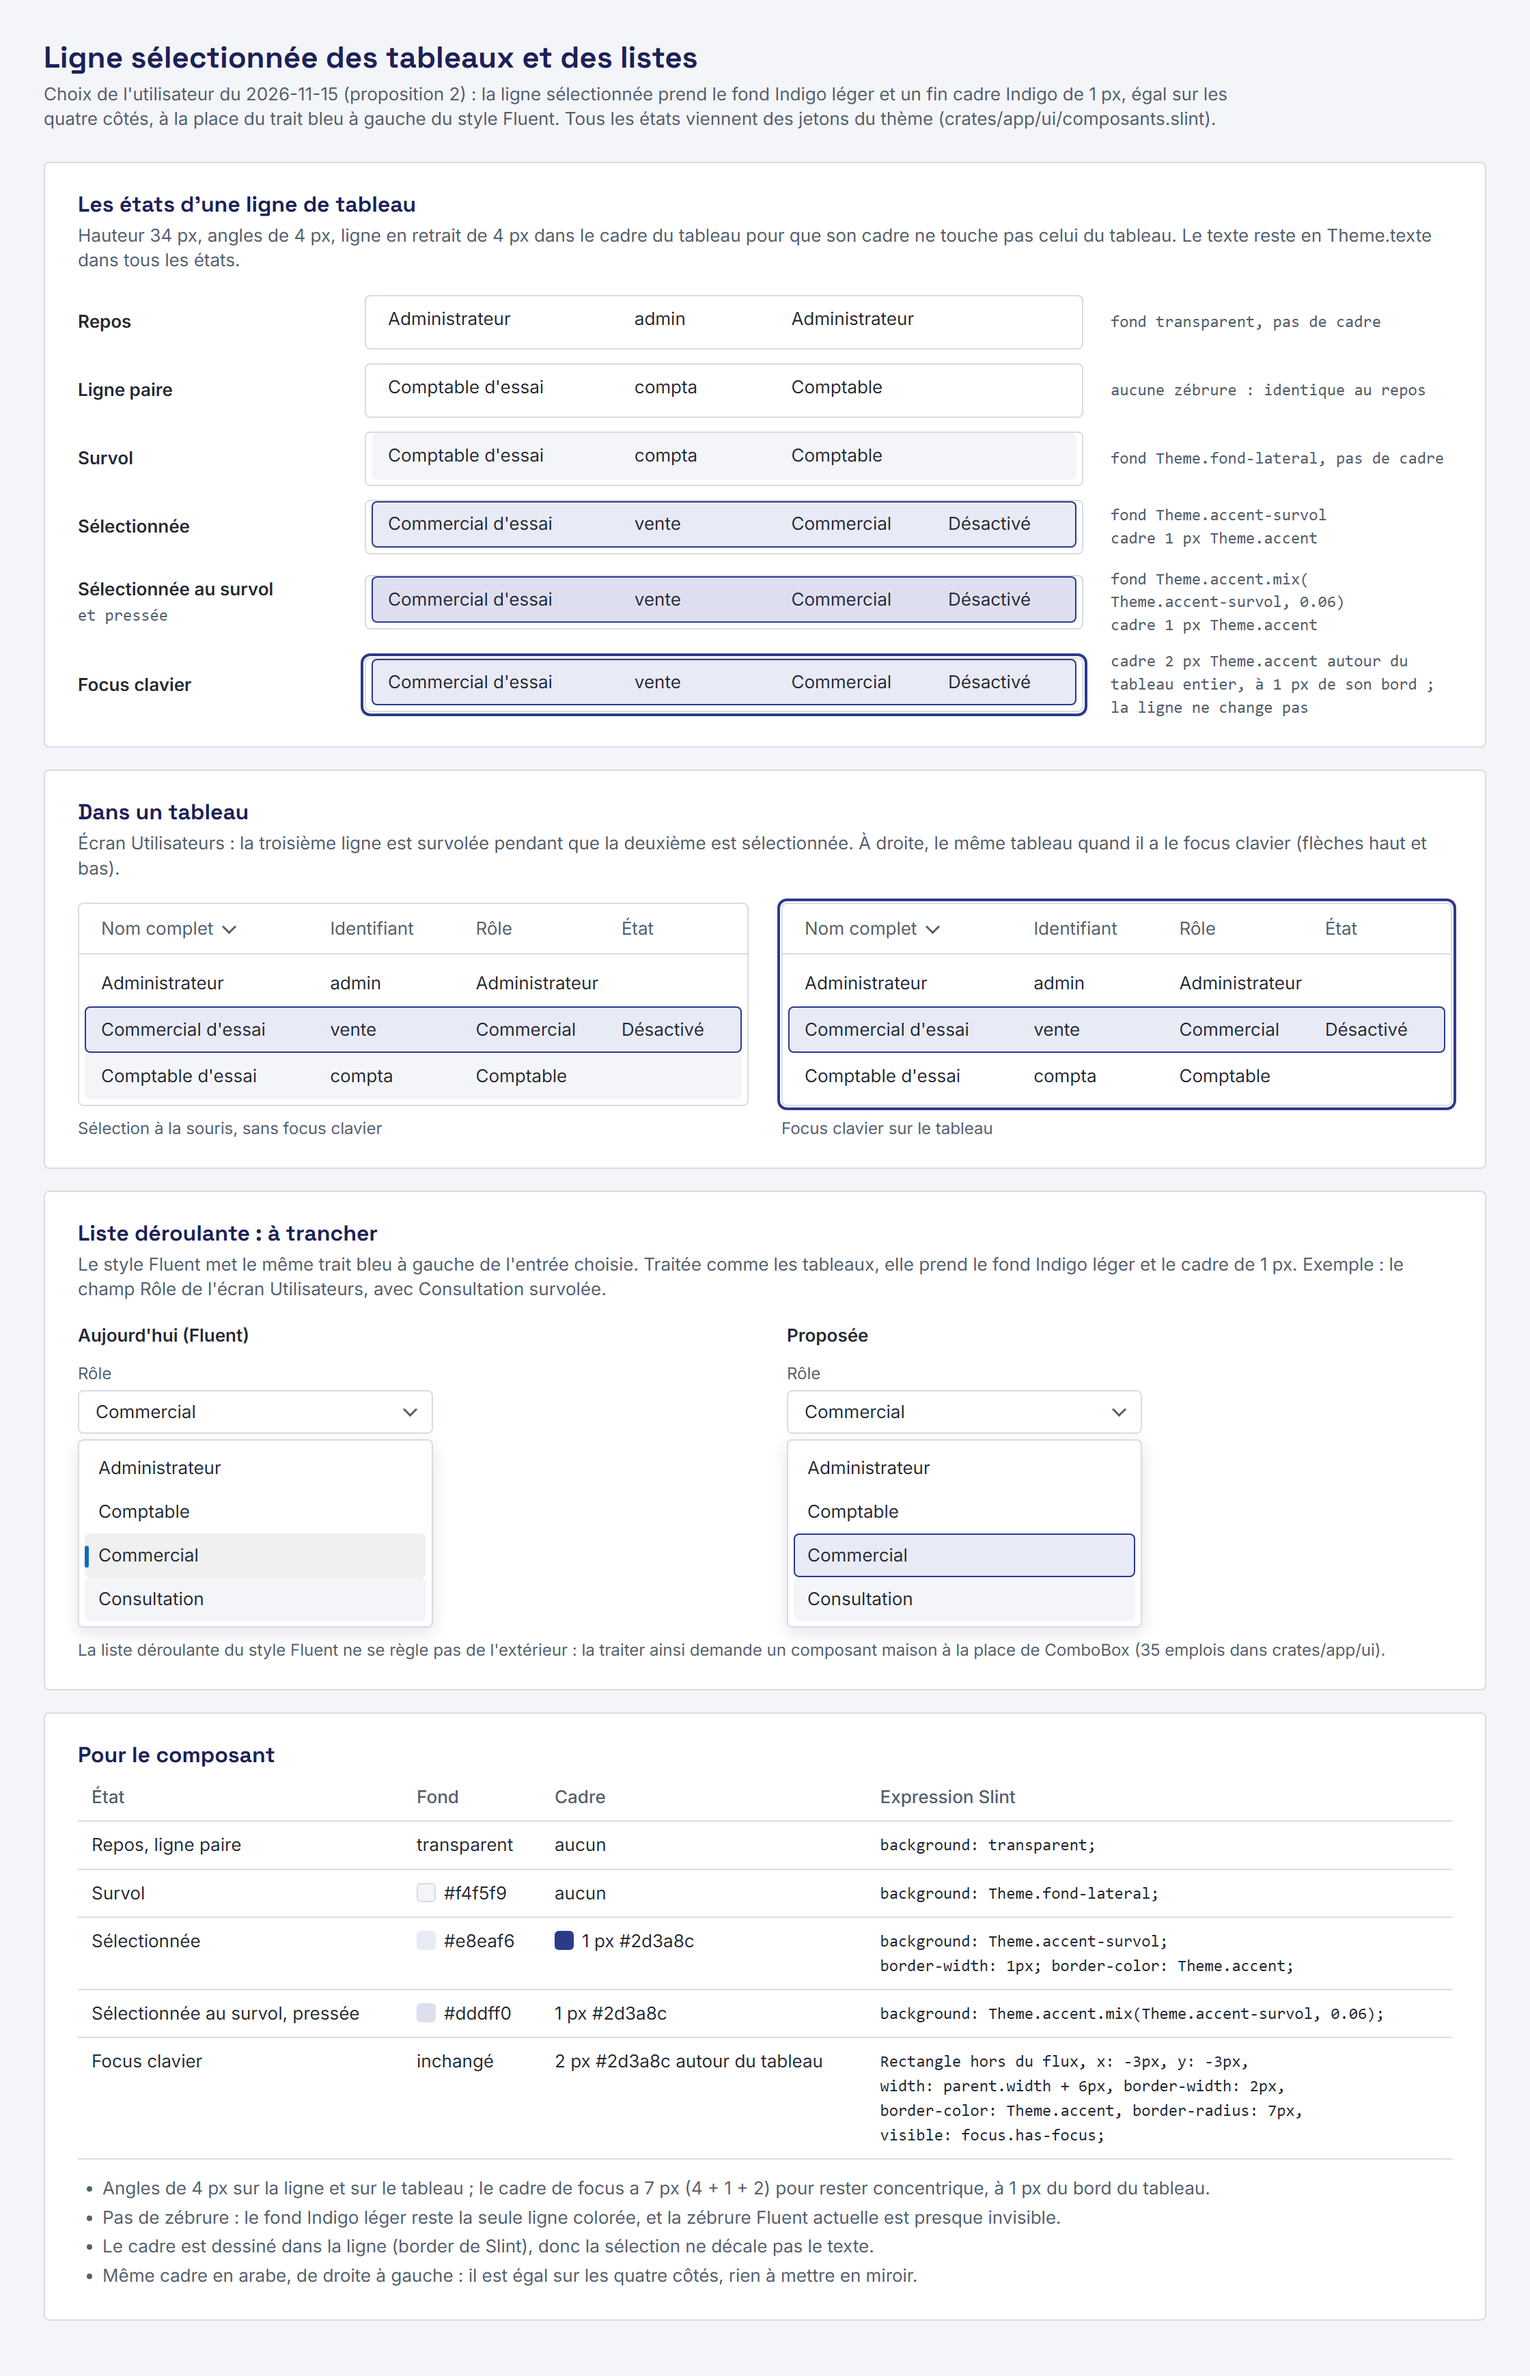
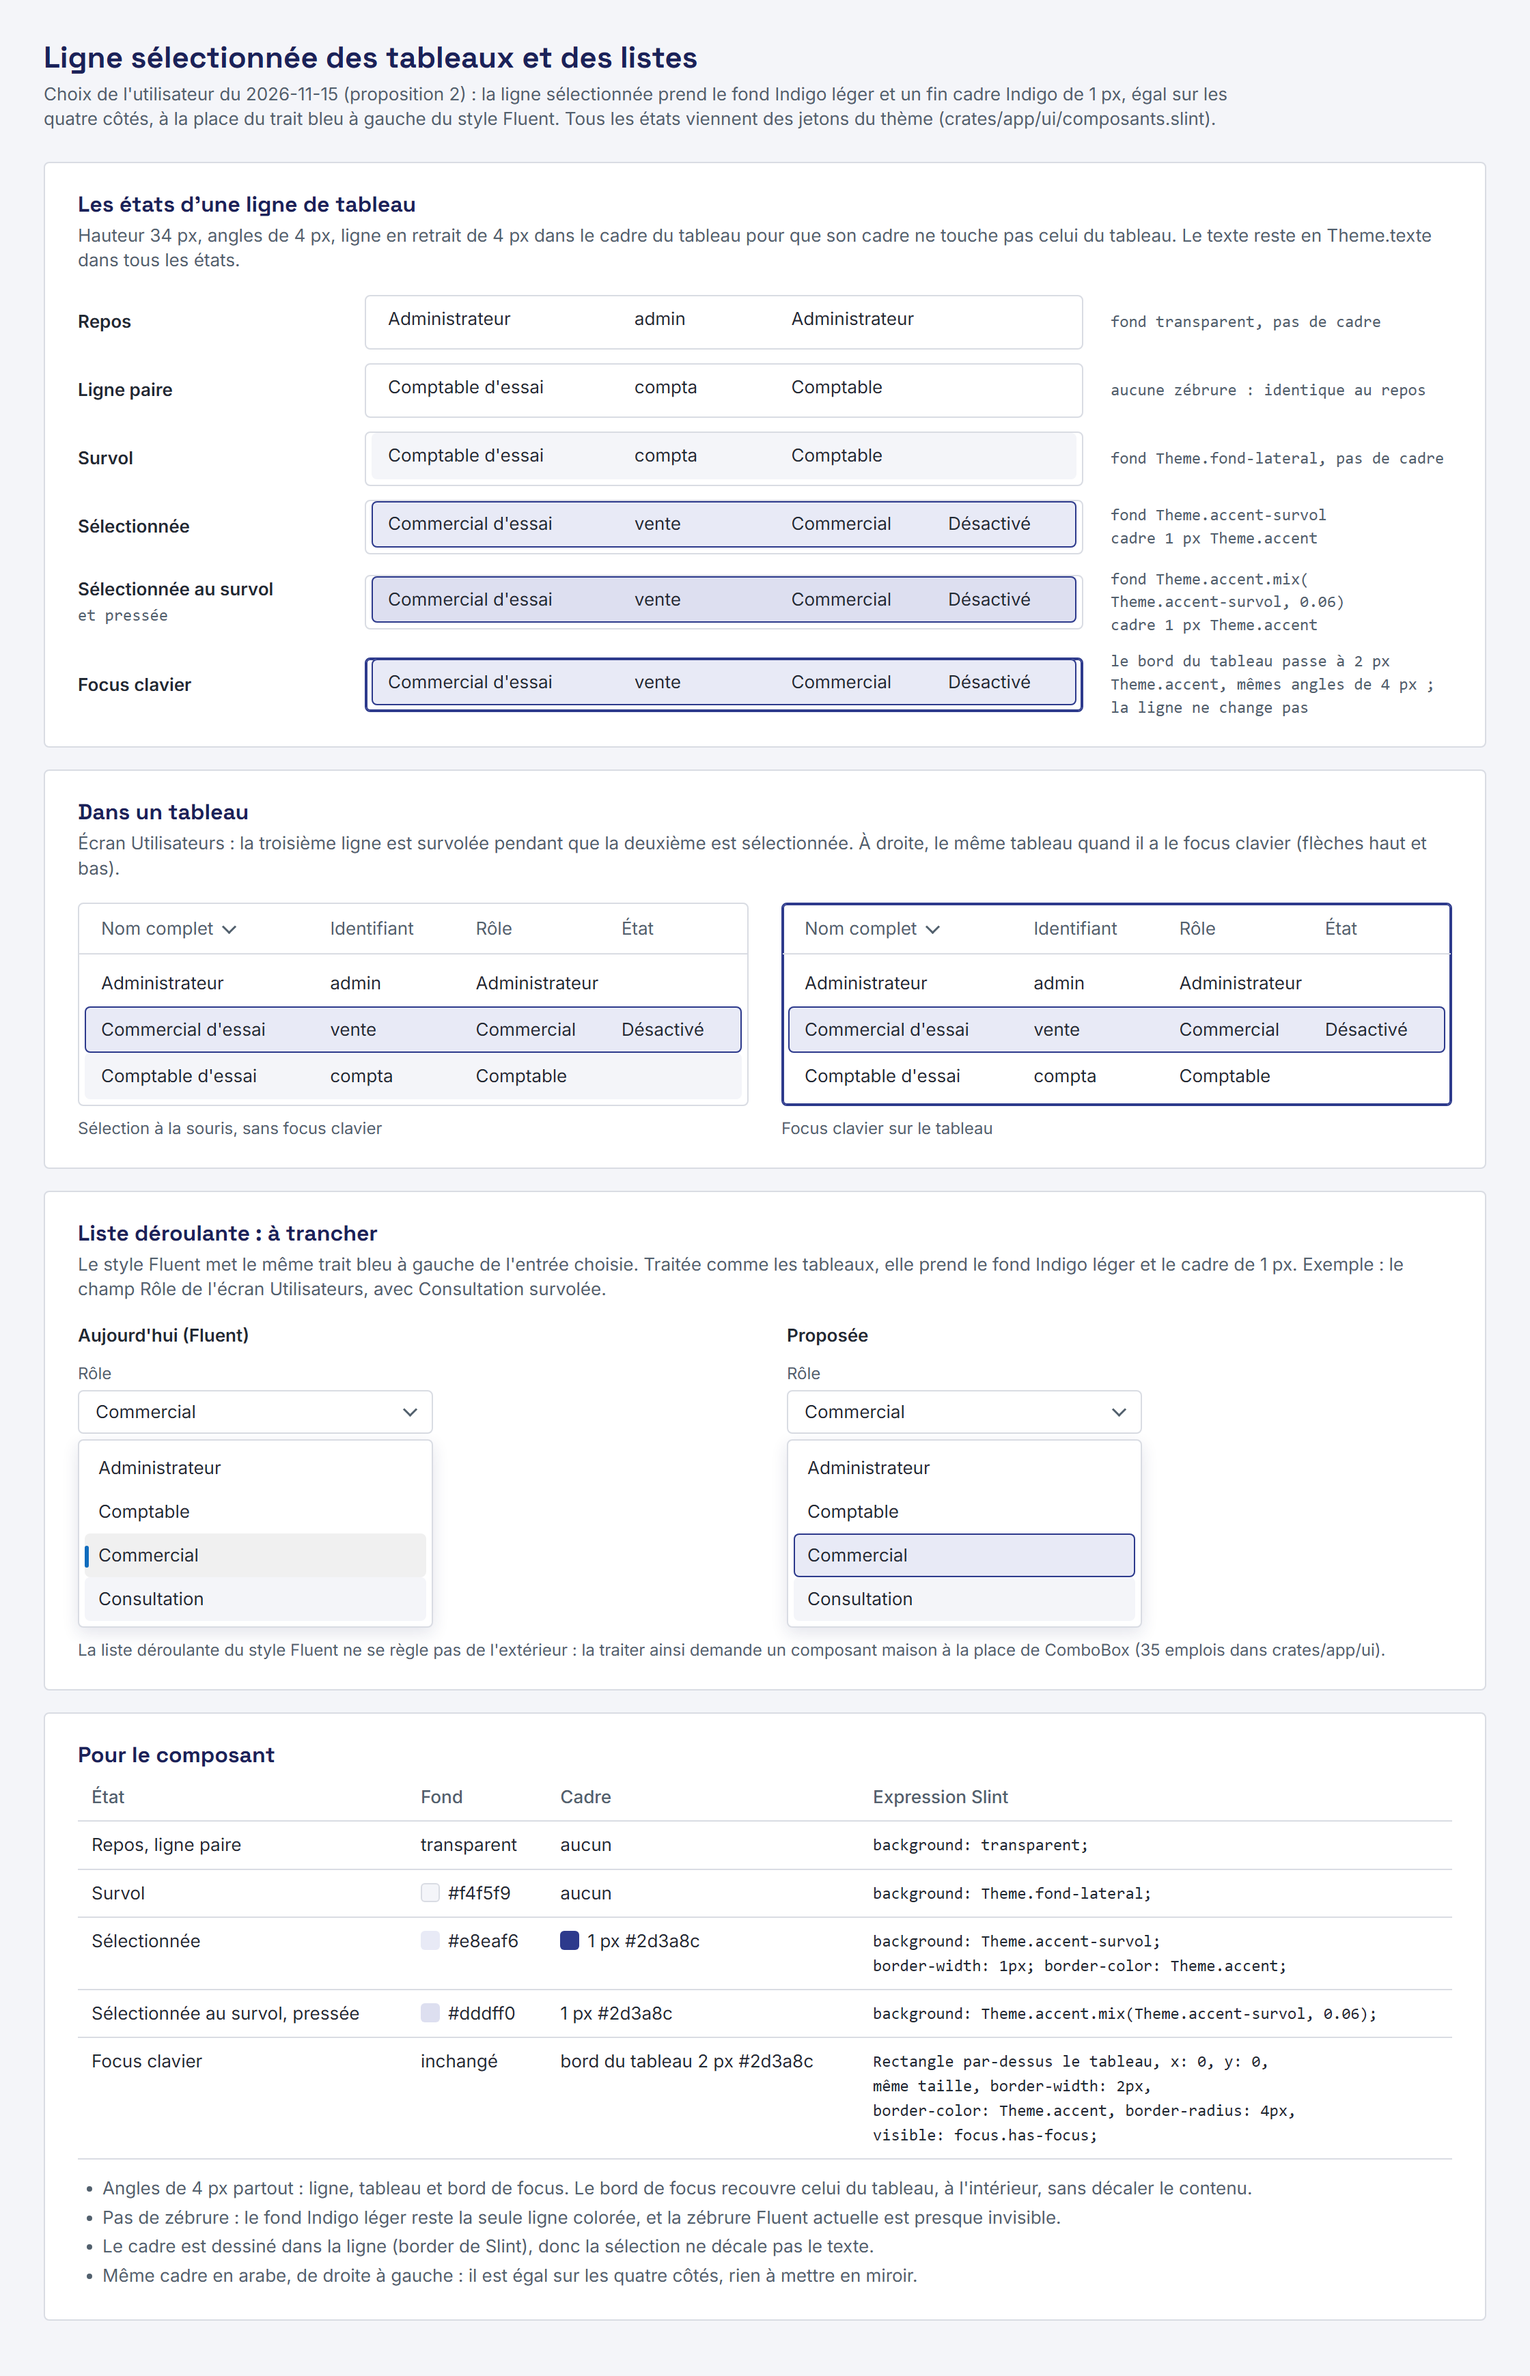
Marque : planche de la ligne sélectionnée, cadre de focus à 4 px sur le bord du tableau

diff --git a/docs/marque/propositions-2026-11-15-selection/planche.html b/docs/marque/propositions-2026-11-15-selection/planche.html
@@ -22,7 +22,7 @@ h2 { font: 700 16px "Space Grotesk", sans-serif; margin: 0 0 4px; color: var(--n
 .nom { font-weight: 600; }
 .jeton { font: 12px/1.4 Consolas, monospace; color: var(--texte-secondaire); }
 .tableau { background: #fff; border: 1px solid var(--bordure); border-radius: 4px; padding: 0 4px 4px; }
-.tableau.focus { outline: 2px solid var(--accent); outline-offset: 1px; }
+.tableau.focus { border-color: var(--accent); box-shadow: inset 0 0 0 1px var(--accent); }
 .entete, .ligne { display: grid; grid-template-columns: 2.2fr 1.4fr 1.4fr 1fr; align-items: center; padding: 0 12px; }
 .entete { height: 36px; color: var(--texte-secondaire); border-bottom: 1px solid var(--bordure); margin: 0 -4px 4px; padding: 0 16px; }
 .tri::after { content: ""; display: inline-block; width: 6px; height: 6px; margin-left: 8px; border-right: 1.5px solid currentColor; border-bottom: 1.5px solid currentColor; transform: translateY(-2px) rotate(45deg); }
@@ -78,7 +78,7 @@ li { margin: 3px 0; }
 
   <div class="nom">Focus clavier</div>
   <div class="tableau focus"><div class="ligne sel"><span>Commercial d'essai</span><span>vente</span><span>Commercial</span><span>Désactivé</span></div></div>
-  <div class="jeton">cadre 2 px Theme.accent autour du tableau entier, à 1 px de son bord ; la ligne ne change pas</div>
+  <div class="jeton">le bord du tableau passe à 2 px Theme.accent, mêmes angles de 4 px ; la ligne ne change pas</div>
 </div>
 </section>
 
@@ -145,10 +145,10 @@ li { margin: 3px 0; }
 <tr><td>Survol</td><td><span class="pastille" style="background:#f4f5f9;border:1px solid #d9dce3"></span>#f4f5f9</td><td>aucun</td><td class="code">background: Theme.fond-lateral;</td></tr>
 <tr><td>Sélectionnée</td><td><span class="pastille" style="background:#e8eaf6"></span>#e8eaf6</td><td><span class="pastille" style="background:#2d3a8c"></span>1 px #2d3a8c</td><td class="code">background: Theme.accent-survol;<br>border-width: 1px; border-color: Theme.accent;</td></tr>
 <tr><td>Sélectionnée au survol, pressée</td><td><span class="pastille" style="background:#dddff0"></span>#dddff0</td><td>1 px #2d3a8c</td><td class="code">background: Theme.accent.mix(Theme.accent-survol, 0.06);</td></tr>
-<tr><td>Focus clavier</td><td>inchangé</td><td>2 px #2d3a8c autour du tableau</td><td class="code">Rectangle hors du flux, x: -3px, y: -3px,<br>width: parent.width + 6px, border-width: 2px,<br>border-color: Theme.accent, border-radius: 7px,<br>visible: focus.has-focus;</td></tr>
+<tr><td>Focus clavier</td><td>inchangé</td><td>bord du tableau 2 px #2d3a8c</td><td class="code">Rectangle par-dessus le tableau, x: 0, y: 0,<br>même taille, border-width: 2px,<br>border-color: Theme.accent, border-radius: 4px,<br>visible: focus.has-focus;</td></tr>
 </table>
 <ul style="margin-top:12px">
-<li>Angles de 4 px sur la ligne et sur le tableau ; le cadre de focus a 7 px (4 + 1 + 2) pour rester concentrique, à 1 px du bord du tableau.</li>
+<li>Angles de 4 px partout : ligne, tableau et bord de focus. Le bord de focus recouvre celui du tableau, à l'intérieur, sans décaler le contenu.</li>
 <li>Pas de zébrure : le fond Indigo léger reste la seule ligne colorée, et la zébrure Fluent actuelle est presque invisible.</li>
 <li>Le cadre est dessiné dans la ligne (border de Slint), donc la sélection ne décale pas le texte.</li>
 <li>Même cadre en arabe, de droite à gauche : il est égal sur les quatre côtés, rien à mettre en miroir.</li>

diff --git a/.claude/journal.md b/.claude/journal.md
@@ -459,3 +459,4 @@
 [2026-11-15 05:31:53] Suivi - F7a codé : reprise d'une base V1 dans un serveur neuf. Stockage : module reprise (copie des fichiers de la base V1 sauvegardée en .kzs sans ouvrir l'original, copie de travail migrée sur le serveur, versement en une transaction avec comptes, fiche, paramètres, documents, compteurs et audit, refus si le serveur n'est pas neuf ou sans rôle Admin). Protocole version 4 : ReprisePossible et Reprise. Serveur, client et synchroniseur (resume_reprise, reprise_possible, reprendre, SourceV1). Essais : trois dans le stockage (numérotation continue, changements émis, base V1 intacte), un de bout en bout dans le poste. kadenz-admin ne compilait plus depuis 634edee (champ attente de Retour), signalé à la session des écrans qui le corrige.
 [2026-11-15 05:38:43] Instruction - Ligne sélectionnée des tableaux : l'utilisateur choisit la proposition 2 (fond indigo léger et fin cadre égal sur les quatre côtés) à la place de la barre bleue du style Fluent ; planche demandée à la session marque avant le tableau maison ; listes déroulantes à trancher sur la planche.
 [2026-11-15 05:41:31] Suivi - Ligne sélectionnée : l'utilisateur a choisi la proposition 2 (fond Theme.accent-survol, cadre égal 1 px Theme.accent). Planche des états (repos, survol, sélectionnée, sélectionnée au survol, focus clavier) et de la liste déroulante à trancher : docs/marque/propositions-2026-11-15-selection, envoyée à la session des écrans qui code le composant.
+[2026-11-15 05:42:36] Correction - Planche de la ligne sélectionnée : cadre de focus ramené à 4 px (bord du tableau à 2 px Theme.accent, par-dessus, sans écart), sur remarque de la session des écrans (règle des angles de 4 px au plus).
